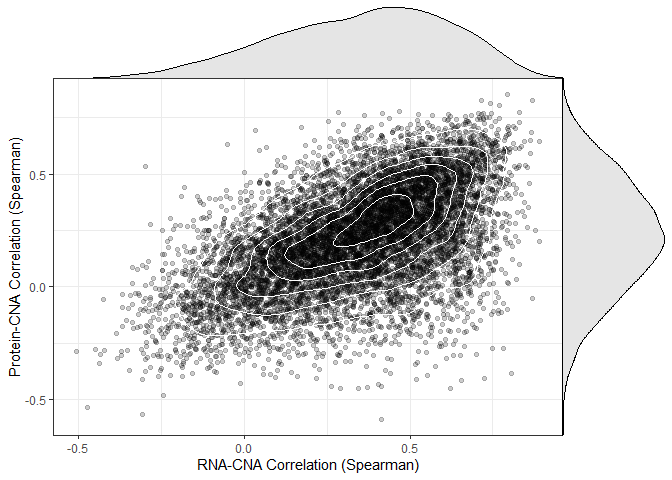
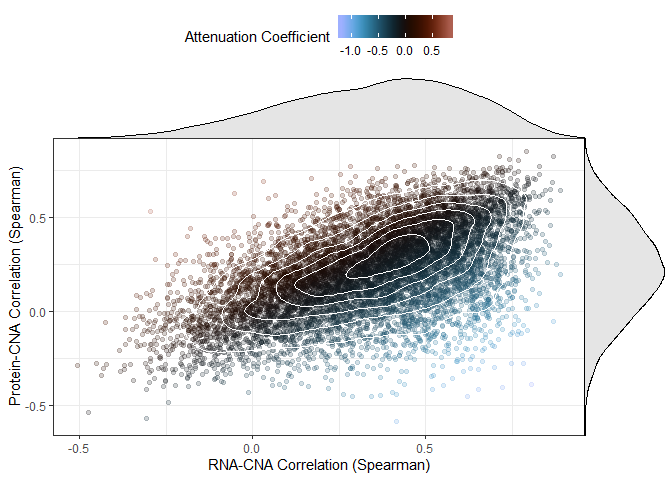
Added the attenuation coefficient calculation.

diff --git a/pages/proteogenomics/cna-protein.md b/pages/proteogenomics/cna-protein.md
@@ -25,6 +25,7 @@ installed.
 library(tidyr)
 library(dplyr)
 library(ggplot2)
+library(scico)
 library(gtable)
 library(grid)
 library(conflicted)
@@ -60,10 +61,56 @@ cnaCorDF <- read.table(
 
 ##### [:thought\_balloon:](answers.md#thought_balloon-what-do-the-columns-represent-what-is-the-difference-between-pearson-and-spearman-correlations) What do the columns represent? What is the difference between Pearson and Spearman correlations?
 
+Gonçalves *et al.* [(3)](#references) define the attenuation coefficient
+as the difference between the correlation of the protein and RNA.
+
+##### :pencil2: Estimate the attenuation coefficient and plot its density.
+
+``` r
+# Attenuation coefficient
+
+cnaCorDF <- cnaCorDF %>%
+    mutate(
+        attenuation_coefficient = protein_Spearman_correlation - mRNA_Spearman_correlation
+    )
+
+
+# Build density plot
+
+ggplot(
+    data = cnaCorDF
+) +
+    geom_density(
+        mapping = aes(
+            x = attenuation_coefficient
+        ),
+        fill = "black",
+        alpha = 0.2
+    ) +
+    scale_x_continuous(
+        name = "Attenuation Coefficient"
+    ) +
+    scale_y_continuous(
+        name = "Density"
+    )
+```
+
+![](cna-protein_files/figure-gfm/attenuation_coefficient-1.png)<!-- -->
+
 ##### :pencil2: Plot the correlation results for proteins against mRNA as in Figure 6 of Johansson *et al.* [(1)](#references) and Figure 1 of Gonçalves *et al.* [(3)](#references).
 
 ``` r
+# Attenuation coefficient
+
+cnaCorDF <- cnaCorDF %>%
+    mutate(
+        attenuation_coefficient = protein_Spearman_correlation - mRNA_Spearman_correlation
+    )
+
+
 # Build the scatter plot
+
+gradientEnd <- (max(cnaCorDF$attenuation_coefficient) - min(cnaCorDF$attenuation_coefficient)) / (2 * (-min(cnaCorDF$attenuation_coefficient)))
 
 scatterPlot <- ggplot(
     data = cnaCorDF
@@ -71,9 +118,9 @@ scatterPlot <- ggplot(
     geom_point(
         mapping = aes(
             x = mRNA_Spearman_correlation,
-            y = protein_Spearman_correlation
+            y = protein_Spearman_correlation,
+            col = attenuation_coefficient
         ),
-        col = "black",
         alpha = 0.2
     ) +
     geom_density_2d(
@@ -88,6 +135,15 @@ scatterPlot <- ggplot(
     ) +
     scale_y_continuous(
         name = "Protein-CNA Correlation (Spearman)"
+    ) +
+    scale_color_scico(
+        name = "Attenuation Coefficient",
+        palette = "berlin",
+        begin = 0,
+        end = gradientEnd
+    ) +
+    theme(
+        legend.position = "top"
     )
 
 
@@ -148,17 +204,17 @@ proteinDensityGrob <- ggplotGrob(proteinDensityPlot)
 
 # Insert the densities as new row and column in the scatter grob
 
-mergedGrob <- rbind(scatterGrob[1:4, ], rnaDensityGrob[7, ], scatterGrob[5:nrow(scatterGrob), ], size = "last")
-mergedGrob$heights[5] <- unit(0.2, "null")
+mergedGrob <- rbind(scatterGrob[1:7, ], rnaDensityGrob[7, ], scatterGrob[8:nrow(scatterGrob), ], size = "last")
+mergedGrob$heights[8] <- unit(0.2, "null")
 
 proteinDensityGrob <- gtable_add_rows(
         x = proteinDensityGrob, 
-        heights = unit(1, "null"), 
+        heights = unit(rep(0, nrow(mergedGrob) - nrow(proteinDensityGrob)), "null"), 
         pos = 0
     )
 
 mergedGrob <- cbind(mergedGrob[, 1:5], proteinDensityGrob[, 5], mergedGrob[, 6:ncol(mergedGrob)], size = "first")
-mergedGrob$widths[6] <- unit(0.2, "null")
+mergedGrob$widths[6] <- unit(0.15, "null")
 
 
 # Plot
